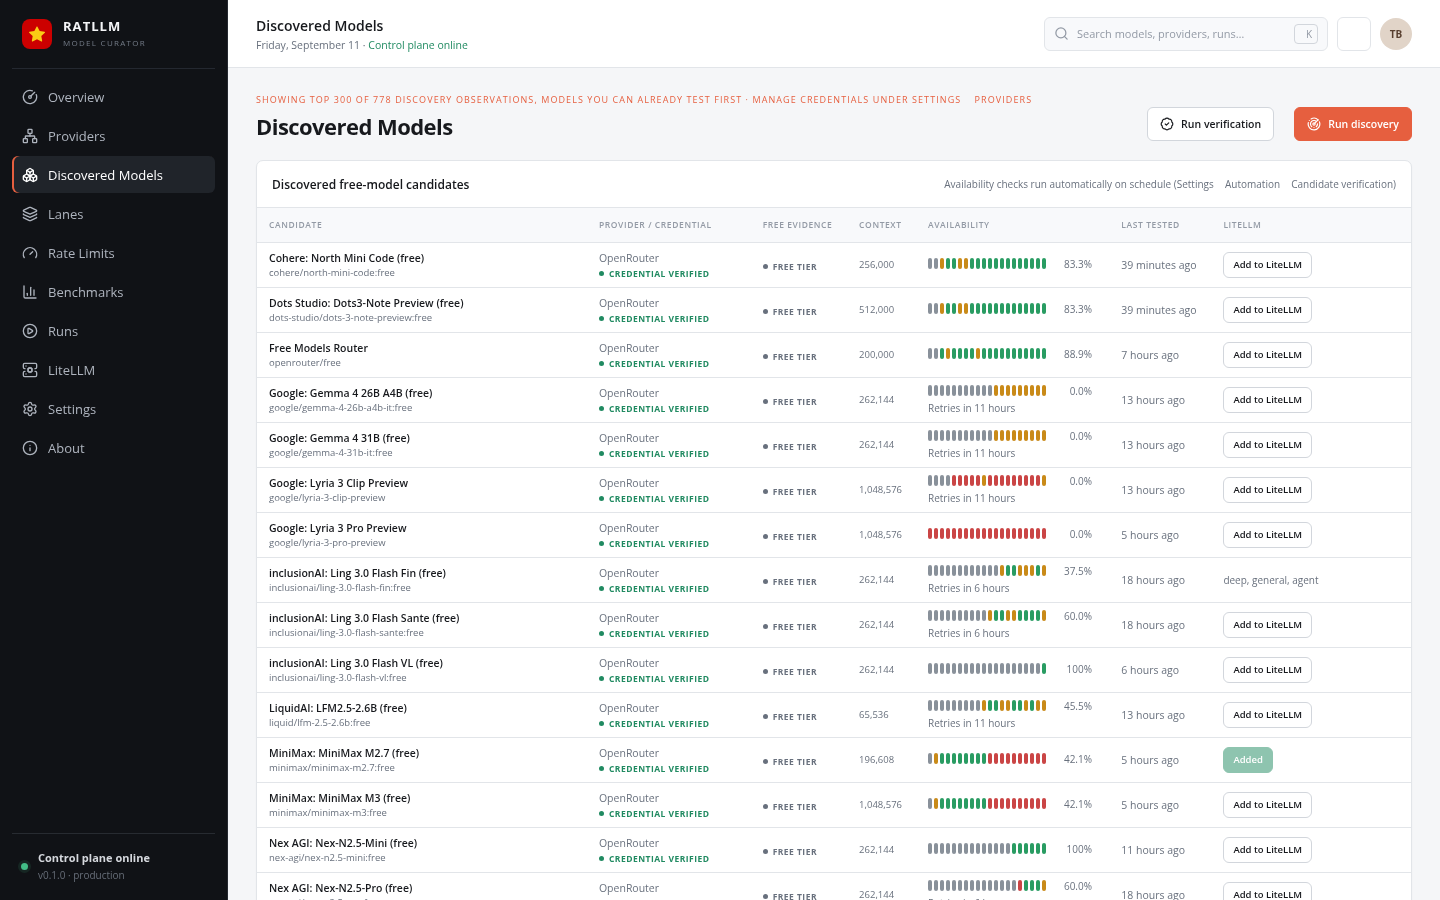
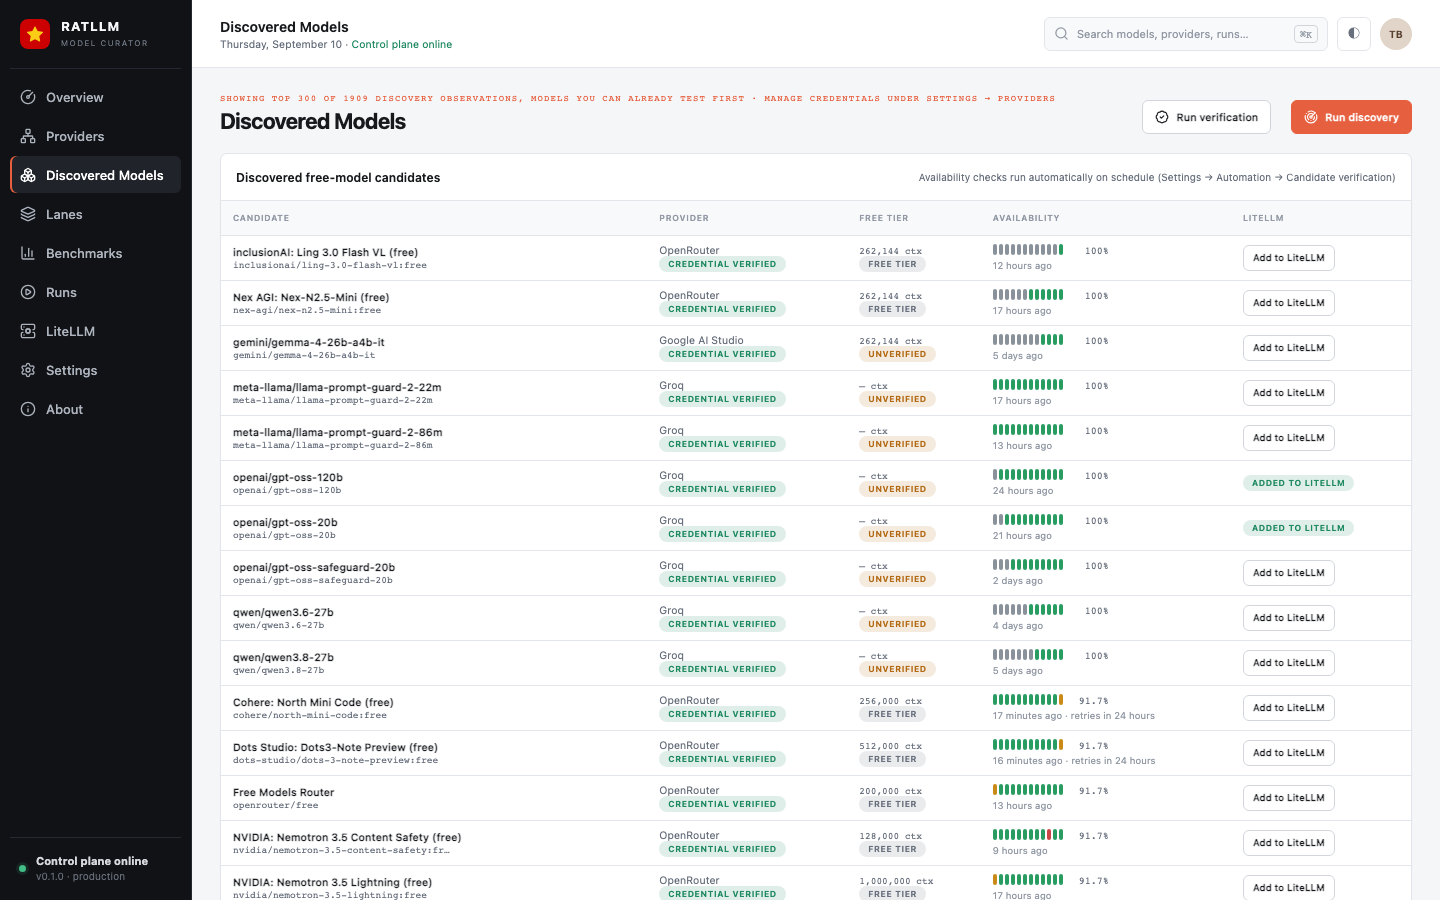
Refresh README screenshots and remove stale docs
Screenshots hadn't been retaken since the recent UI overhaul (5-column
Discovered Models table, real pill styling, Local badges, availability
sorting) and no longer matched the app. Also dropped the Rate Limits
page's screenshot/section and the ADMIN_TOKEN env var row, both removed
from the app earlier but left behind in the README.

Claude-Session: https://claude.ai/code/session_01DPDks758MoWJufdGE3SoHZ

diff --git a/README.md b/README.md
@@ -106,11 +106,6 @@ Models found on a provider's catalog before they're added to LiteLLM. **Add to L
 
 The `smart-*` LiteLLM model groups (general, coding, agent, deep reasoning, long-context, vision, summary, speech) and which deployments currently back each one. The `LANE_RECONCILE` automation re-adds any missing lane member and re-pushes fallback chains on a schedule.
 
-### Rate Limits
-![Rate Limits](docs/screenshots/rate-limits.png)
-
-Fully automated — published, observed, and safe RPM/TPM per deployment, learned from real smoke-test evidence every 6 hours by the Rate Limit Learning job. There is no manual override; every value here is machine-derived.
-
 ### Benchmarks
 ![Benchmarks](docs/screenshots/benchmarks.png)
 
@@ -124,12 +119,12 @@ The execution log for every scheduled and manually triggered job — discovery, 
 ### LiteLLM
 ![LiteLLM](docs/screenshots/litellm.png)
 
-The connection to your LiteLLM proxy. Sync inventory, run a smoke test against any deployment, and see which deployments RatLLM manages versus which it leaves alone. Unmanaged deployments never enter a mutation code path.
+The connection to your LiteLLM proxy: live deployment inventory sorted by real check availability, local (MLX) deployments called out, and which deployments RatLLM manages versus which it leaves alone. Health checks run automatically on a schedule — no manual per-deployment test button needed. Unmanaged deployments never enter a mutation code path.
 
 ### Settings
 ![Settings](docs/screenshots/settings.png)
 
-Environment information, provider credentials, the LiteLLM connection, automation schedules (including `PROVIDER_VERIFICATION`, which re-checks every credentialed provider on a schedule instead of only on manual click), model sources, and API access.
+Control plane status, the LiteLLM connection (with a one-click **Auto setup** for lanes and fallbacks, plus auto-add/auto-remove toggles), per-provider settings, automation schedules (including `PROVIDER_VERIFICATION`, which re-checks every credentialed provider on a schedule instead of only on manual click), free model sources, and safety controls.
 
 ### About
 ![About](docs/screenshots/about.png)
@@ -145,7 +140,6 @@ The in-app version of the [About & license](#about--license) section below.
 | `LITELLM_MASTER_KEY` | Server-only LiteLLM administrative key |
 | `INTERNAL_API_SECRET` | Authenticates internal automation endpoints |
 | `CREDENTIAL_ENCRYPTION_KEY` | Encrypts provider credentials at rest |
-| `ADMIN_TOKEN` | Optional bearer protection for non-health routes |
 | `DEMO_MODE` | Enables isolated development data |
 
 See [architecture](docs/ARCHITECTURE.md), [database](docs/DATABASE.md), [LiteLLM](docs/LITELLM.md), [deployment](docs/DEPLOYMENT.md), [rate-limit learning](docs/RATE-LIMIT-LEARNING.md), and [security](docs/SECURITY.md) for deeper detail than this file covers. The production stack is the Next.js/PostgreSQL application under `src/` and `docker/`.
